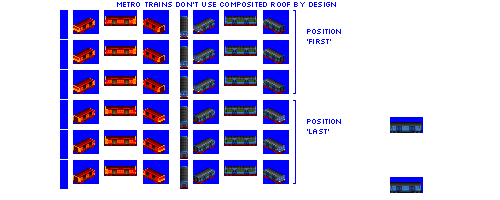
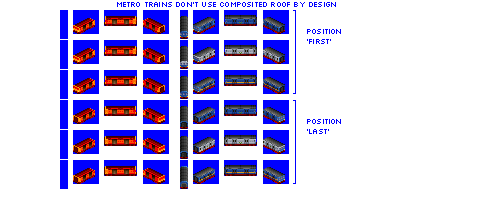
Change: sprites complete for Hammersmith and Wandle metro units

diff --git a/src/vehicles/pony/hammersmith.py b/src/vehicles/pony/hammersmith.py
@@ -13,7 +13,7 @@ def main(roster_id, **kwargs):
             "METRO": 900,
         },
         gen=2,
-        sprites_complete=False,
+        sprites_complete=True,
     )
 
     consist.add_unit(

diff --git a/src/vehicles/pony/wandle.py b/src/vehicles/pony/wandle.py
@@ -13,7 +13,7 @@ def main(roster_id, **kwargs):
             "METRO": 900,
         },
         gen=2,
-        sprites_complete=False,
+        sprites_complete=True,
     )
 
     consist.add_unit(
